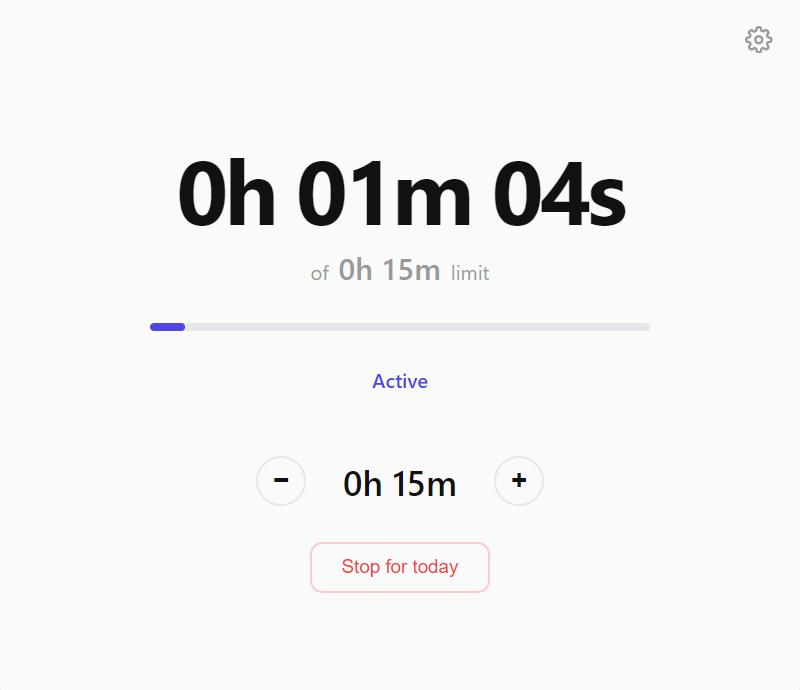
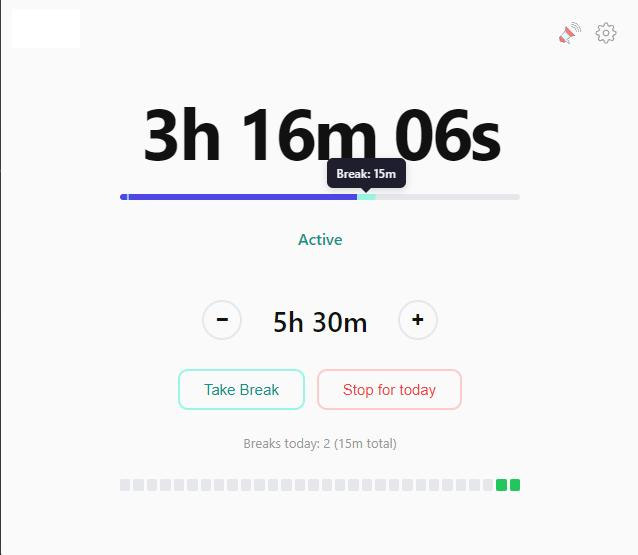
update screenshots and readme

diff --git a/readme.md b/readme.md
@@ -27,6 +27,7 @@ EnoughWork isn't meant to lock you down. It's a nudge to help you notice how lon
 - **Quiet mode** — mini notification popup instead of fullscreen overlay (useful during meetings)
 - **Activity heatmap** — 30-day colored grid showing daily work and break totals
 - **Progress bar** — shows work progress with break segments at correct positions
+- **Auto-check update** — checks for new versions on startup and every 4 hours, badge notification when available
 - **Fullscreen app detection** — adapts overlay behavior when games or presentations are running
 - **Star Drop animation** — subtle animated notification for fullscreen apps
 - **Multi-monitor support** — overlays appear on all connected monitors
@@ -41,19 +42,28 @@ See [docs/features.md](docs/features.md) for detailed feature documentation and 
 ## Screenshots
 
 <p align="center">
-  <img src="screenshots/enoughwork-app.jpg" width="400" alt="Main window" />
+  <img src="screenshots/enoughwork-app.jpg" width="300" alt="Main window" />
   &nbsp;&nbsp;
-  <img src="screenshots/enoughwork-settings.jpg" width="400" alt="Settings" />
+  <img src="screenshots/enoughwork-settings.jpg" width="300" alt="Settings" />
+  &nbsp;&nbsp;
+  <img src="screenshots/enoughwork-take-break.jpg" width="300" alt="Take break picker" />
 </p>
 <p align="center">
-  <img src="screenshots/enoughwork-overlay.jpg" width="600" alt="Limit reached overlay" />
+  <img src="screenshots/enoughwork-break-overlay.jpg" width="300" alt="Break countdown overlay" />
+  &nbsp;&nbsp;
+  <img src="screenshots/enoughwork-break-recharged-overlay.jpg" width="300" alt="Break recharged overlay" />
+</p>
+<p align="center">
+  <img src="screenshots/enoughwork-overlay.jpg" width="400" alt="Limit reached overlay" />
+  &nbsp;&nbsp;
+  <img src="screenshots/enoughwork-mini-notifications.jpg" width="400" alt="Quiet mode notifications" />
 </p>
 
 ## Tech stack
 
 - [Tauri](https://tauri.app/) (Rust backend + webview frontend)
 - Vanilla HTML, CSS, JavaScript (no framework)
-- Plugins: autostart, single-instance, store, tray-icon
+- Plugins: autostart, single-instance, store, tray-icon, updater
 
 ## Getting started
 
@@ -63,6 +73,14 @@ pnpm dev
 ```
 
 ## Build for production
+
+Requires signing keys for auto-update. Copy `.env.example` to `.env` and set the password:
+
+```
+TAURI_SIGNING_PRIVATE_KEY_PASSWORD=your_password
+```
+
+The key file should be at `keys/enoughwork.key` (generate with `pnpm signer`).
 
 ```bash
 pnpm build
